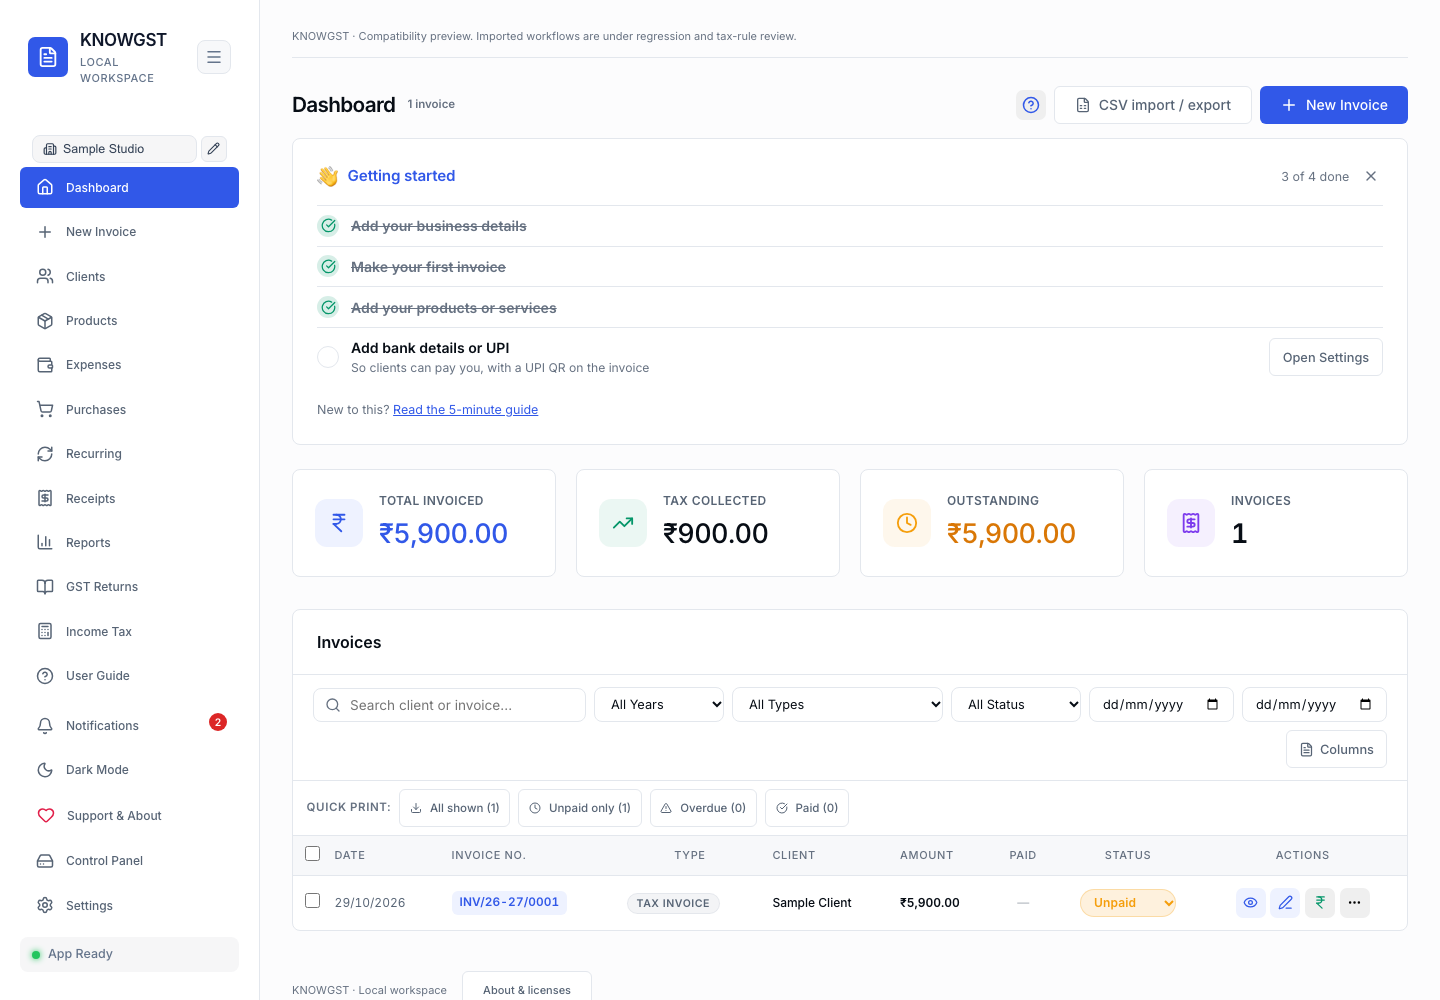
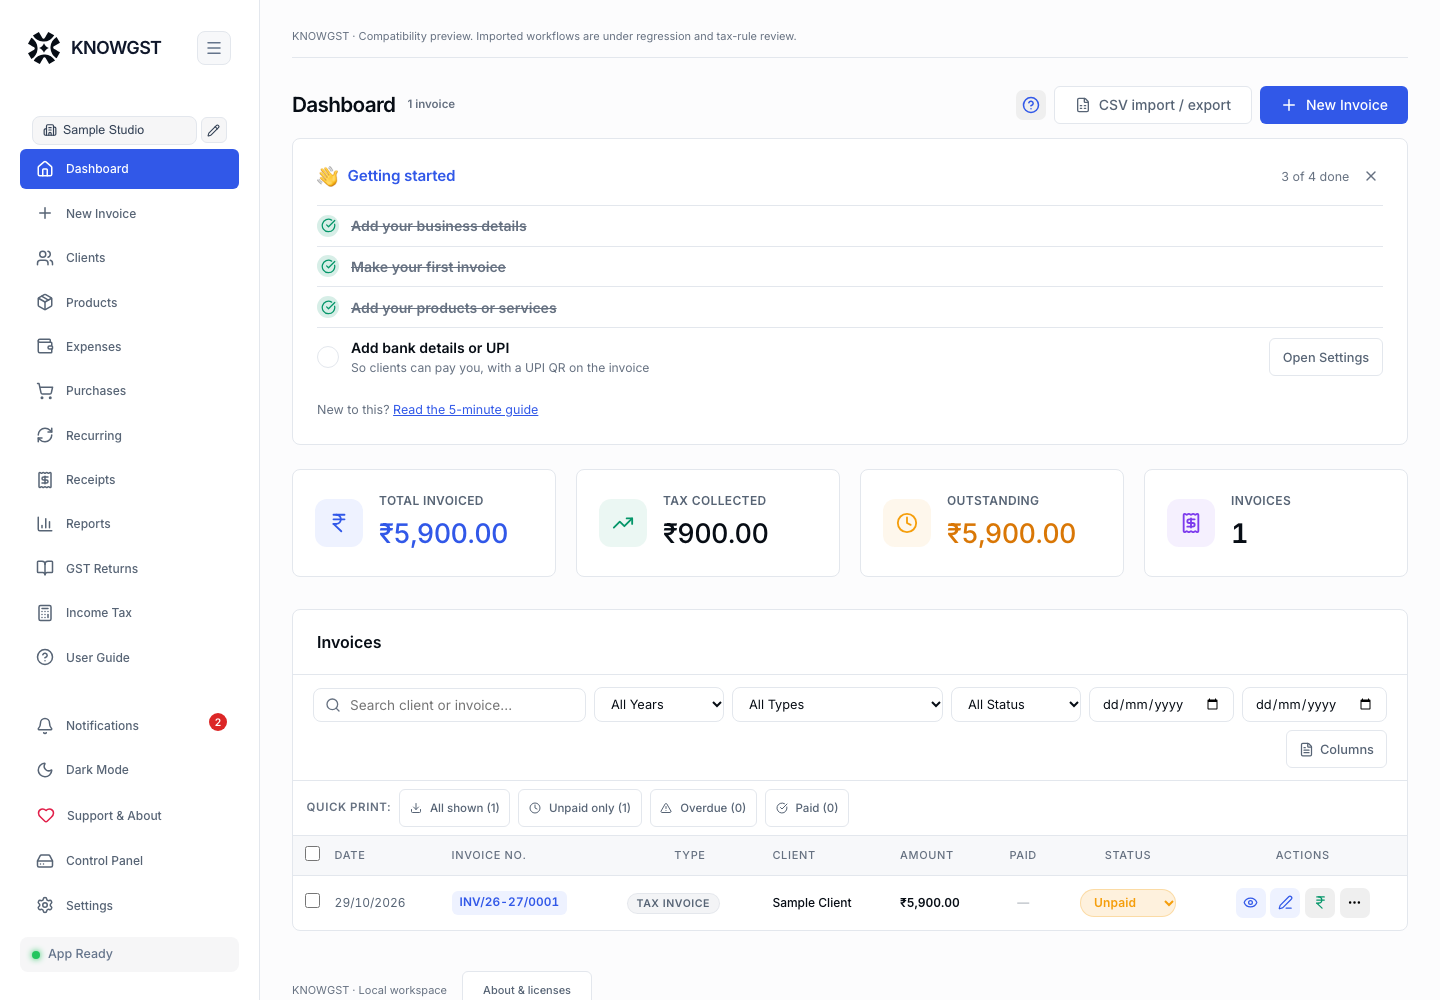
Use official KnowAI symbol across KNOWGST branding

Changed region(s): [[0.0, 0.124, 0.1875, 0.682], [0.0, 0.031, 0.1562, 0.093]]

diff --git a/apps/parity/public/docs/style.css b/apps/parity/public/docs/style.css
@@ -1,1 +1,3 @@
 :root{font-family:Inter,-apple-system,BlinkMacSystemFont,"Segoe UI",sans-serif;color:#20242d;background:#fff;font-size:15px;line-height:1.65;--bg:#fff;--soft:#f7f8fa;--line:#e6e8ed;--muted:#606775;--accent:#2557ce;--text:#20242d;color-scheme:light}*{box-sizing:border-box}html{scroll-behavior:smooth;scroll-padding-top:95px}html[data-theme=dark]{--bg:#17191e;--soft:#20232b;--line:#343945;--muted:#a8afbd;--accent:#9db9ff;--text:#ebedf2;background:var(--bg);color:var(--text);color-scheme:dark}body{margin:0}a{color:var(--accent);text-decoration:none}a:hover{text-decoration:underline}button,input{font:inherit}button{cursor:pointer;background:var(--bg);color:var(--text);border:1px solid var(--line);border-radius:7px;padding:5px 11px}a:focus-visible,button:focus-visible,input:focus-visible{outline:3px solid var(--accent);outline-offset:4px}.skip{position:fixed;top:-100px;left:20px;background:var(--bg);padding:12px;z-index:5}.skip:focus{top:10px}header{height:73px;position:sticky;top:0;z-index:2;display:flex;align-items:center;justify-content:space-between;padding:0 30px;border-bottom:1px solid var(--line);background:var(--bg)}.brand{display:flex;align-items:center;gap:12px;color:var(--text);font-weight:650;letter-spacing:-.3px}.mark{display:grid;place-items:center;width:30px;height:30px;background:var(--text);color:var(--bg);border-radius:7px}.divider{color:var(--line);margin:0 4px}.muted{color:var(--muted);font-weight:400}.tools{display:flex;gap:18px;align-items:center}.open-app{font-size:13px;font-weight:600}.layout{max-width:1512px;margin:auto;display:grid;grid-template-columns:252px minmax(0,1fr) 190px}.layout>aside{position:sticky;top:73px;height:calc(100vh - 73px);overflow:auto;padding:30px 24px}#navigation{border-right:1px solid var(--line)}label{display:block;font-size:12px;font-weight:600;margin-bottom:6px}input{width:100%;border:1px solid var(--line);border-radius:7px;background:var(--soft);padding:9px 10px;color:var(--text);font-size:13px}#search-status{font-size:12px;color:var(--muted);margin:7px 0}nav h2{font-size:11px;text-transform:uppercase;letter-spacing:.07em;color:var(--muted);margin:24px 8px 8px}nav a{display:block;font-size:13px;padding:7px 10px;margin:2px 0;border-radius:6px;color:var(--muted);line-height:1.4}nav a:hover{background:var(--soft);text-decoration:none}nav a[aria-current=page]{background:var(--soft);color:var(--accent);font-weight:600}.edition{font-size:11px;color:var(--muted);margin:35px 8px 10px}main{padding:42px 48px 28px;min-width:0;max-width:1000px}.breadcrumb{font-size:12px;color:var(--muted);margin-bottom:32px}.breadcrumb span{padding:0 10px}.badge{font-size:10px;font-weight:650;letter-spacing:.12em;color:var(--muted)}h1{font-size:36px;line-height:1.2;letter-spacing:-1.2px;margin:12px 0 16px;font-weight:650}.intro{font-size:17px;color:var(--muted);line-height:1.7;margin-bottom:32px}section{scroll-margin-top:100px;margin-bottom:32px}h2{font-size:19px;letter-spacing:-.3px;font-weight:600;margin:0 0 15px}figure{margin:0 0 24px}figure a{display:block;border:1px solid var(--line);border-radius:9px;overflow:hidden;background:var(--soft)}img{display:block;width:100%;height:auto}figcaption{font-size:11px;color:var(--muted);margin-top:9px}ol{padding-left:24px}li{padding-left:7px;margin-bottom:13px}.action{display:inline-block;border:1px solid var(--line);border-radius:7px;padding:8px 13px;font-size:13px}.note{background:var(--soft);border:1px solid var(--line);border-radius:8px;padding:20px 22px}.note h2{font-size:14px;margin-bottom:6px}.note p{font-size:13px;color:var(--muted);margin:0}.contents{font-size:12px}.contents p{font-size:10px;letter-spacing:.08em;color:var(--muted);margin:12px 0 16px}.contents a{display:block;color:var(--muted);padding:6px 0}.pagination{display:flex;justify-content:space-between;gap:16px;border-top:1px solid var(--line);padding-top:22px;font-size:13px}.pagination small{display:block;color:var(--muted);margin-bottom:3px}.pagination a:last-child{text-align:right}footer{font-size:11px;color:var(--muted);margin-top:40px}#menu{display:none}@media(min-width:1600px){main{padding-left:60px;padding-right:60px}}@media(max-width:1100px){.layout{grid-template-columns:220px minmax(0,1fr)}.contents{display:none}main{padding:32px}}@media(max-width:720px){header{padding:0 16px;height:65px}.brand{gap:8px;font-size:13px}.brand .divider,.brand .muted{display:none}.tools{gap:10px}#menu{display:block;font-size:12px}.open-app{font-size:12px}.layout{display:block}#navigation{display:none;position:static;height:auto;max-height:60vh;border-bottom:1px solid var(--line);padding:20px}#navigation.expanded{display:block}main{padding:28px 20px}h1{font-size:29px}.intro{font-size:16px}.breadcrumb{margin-bottom:26px}.pagination{font-size:12px}html{scroll-padding-top:80px}}@media(prefers-reduced-motion:reduce){html{scroll-behavior:auto}}
+
+.brand .mark{background:currentColor;color:var(--text);border-radius:0;-webkit-mask:url('/brand/knowai-icon.svg') center/contain no-repeat;mask:url('/brand/knowai-icon.svg') center/contain no-repeat;width:28px;height:28px;flex-shrink:0}

diff --git a/apps/parity/public/docs/index.html b/apps/parity/public/docs/index.html
@@ -1,1 +1,1 @@
-<!doctype html><html lang="en"><head><meta charset="utf-8"><meta name="viewport" content="width=device-width, initial-scale=1"><meta name="description" content="KNOWGST user guide: invoices, purchases, reports and backups, with screenshots of the implemented app."><title>KNOWGST · User guide</title><link rel="stylesheet" href="./style.css"><script type="module" src="./guide.js"></script></head><body><a class="skip" href="#article">Skip to guide</a><header><a class="brand" href="./"><span class="mark">K</span> KNOWGST <span class="divider">/</span><span class="muted">User guide</span></a><div class="tools"><button id="menu" aria-expanded="false" aria-controls="navigation">Topics</button><button id="theme" aria-label="Switch to dark theme">◐</button><a class="open-app" href="/">Open app ↗</a></div></header><div class="layout"><aside id="navigation"><label for="search">Find a topic</label><input id="search" type="search" placeholder="Search the guide…" autocomplete="off"><p id="search-status" role="status"></p><nav aria-label="Guide topics"></nav><div class="edition">Local compatibility edition<br>Updated 29 October 2026</div></aside><main id="article" tabindex="-1"></main><aside class="contents"><p>ON THIS PAGE</p><a href="#overview">Overview</a><a href="#screen">In the app</a><a href="#steps">Step by step</a><a href="#notes">Before you continue</a></aside></div></body></html>
+<!doctype html><html lang="en"><head><meta charset="utf-8"><meta name="viewport" content="width=device-width, initial-scale=1"><meta name="description" content="KNOWGST user guide: invoices, purchases, reports and backups, with screenshots of the implemented app."><link rel="icon" type="image/svg+xml" href="/brand/knowai-icon.svg"><title>KNOWGST · User guide</title><link rel="stylesheet" href="./style.css"><script type="module" src="./guide.js"></script></head><body><a class="skip" href="#article">Skip to guide</a><header><a class="brand" href="./"><span class="mark" aria-hidden="true"></span> KNOWGST <span class="divider">/</span><span class="muted">User guide</span></a><div class="tools"><button id="menu" aria-expanded="false" aria-controls="navigation">Topics</button><button id="theme" aria-label="Switch to dark theme">◐</button><a class="open-app" href="/">Open app ↗</a></div></header><div class="layout"><aside id="navigation"><label for="search">Find a topic</label><input id="search" type="search" placeholder="Search the guide…" autocomplete="off"><p id="search-status" role="status"></p><nav aria-label="Guide topics"></nav><div class="edition">Local compatibility edition<br>Updated 29 October 2026</div></aside><main id="article" tabindex="-1"></main><aside class="contents"><p>ON THIS PAGE</p><a href="#overview">Overview</a><a href="#screen">In the app</a><a href="#steps">Step by step</a><a href="#notes">Before you continue</a></aside></div></body></html>

diff --git a/apps/parity/src/App.jsx b/apps/parity/src/App.jsx
@@ -812,18 +812,16 @@ function App() {
           aria-label="Open menu" aria-expanded={navOpen}>
           <Menu size={22} />
         </button>
-        <span className="mobile-topbar-title">KNOWGST</span>
+        <span className="mobile-topbar-title knowgst-mobile-brand"><span className="knowai-symbol" aria-hidden="true" />KNOWGST</span>
         <span className="mobile-topbar-business">{profile?.businessName || ''}</span>
       </div>
       {navOpen && <div className="sidebar-backdrop" onClick={() => setNavOpen(false)} aria-hidden="true" />}
       <div className={`sidebar${navOpen ? ' sidebar-open' : ''}`} onClick={closeNavAfterPick}>
         <div className="sidebar-brand">
-          <div className="sidebar-logo">
-            <FileText size={22} />
-          </div>
+          <div className="sidebar-logo knowgst-brand-symbol" aria-hidden="true"><span className="knowai-symbol" /></div>
           <div>
             <h2 className="sidebar-title">KNOWGST</h2>
-            <p className="sidebar-subtitle">Local workspace</p>
+            
           </div>
           {/* Auto-hide as a ☰ button (was a text checkbox): pressed = the menu
               shrinks to icons and opens when pointed at. */}

diff --git a/apps/parity/src/knowgst.css b/apps/parity/src/knowgst.css
@@ -28,3 +28,10 @@ html .sidebar .nav-btn-active{background:#3158e8!important;color:#fff!important;
 html .sidebar .nav-btn-support,html .sidebar .nav-btn-support:hover{background:transparent!important;border-color:transparent!important;color:var(--text-secondary)!important}
 html[data-theme=dark] .sidebar .nav-btn:not(.nav-btn-active){color:#c3ccda!important}
 html[data-theme=dark] .form-input{background:var(--card-bg);color:var(--text);border-color:var(--border)}
+
+/* Official KnowAI symbol, paired with the product wordmark. */
+.knowai-symbol{display:block;width:32px;height:32px;flex-shrink:0;background:currentColor;-webkit-mask:url('/brand/knowai-icon.svg') center/contain no-repeat;mask:url('/brand/knowai-icon.svg') center/contain no-repeat}
+.sidebar .sidebar-brand{gap:11px;min-height:40px;align-items:center}
+.sidebar .sidebar-logo.knowgst-brand-symbol{background:transparent;width:32px;height:32px;border-radius:0;box-shadow:none;color:var(--text)}
+.sidebar .sidebar-title{font-size:18px;font-weight:600;letter-spacing:-.65px;white-space:nowrap;line-height:1.2}
+.knowgst-mobile-brand{display:inline-flex;align-items:center;gap:9px}.knowgst-mobile-brand .knowai-symbol{width:23px;height:23px}

diff --git a/apps/parity/index.html b/apps/parity/index.html
@@ -1,1 +1,1 @@
-<!doctype html><html lang="en"><head><meta charset="UTF-8"/><meta name="viewport" content="width=device-width, initial-scale=1.0"/><meta name="theme-color" content="#3158E8"/><title>KNOWGST</title></head><body><div id="root"></div><script type="module" src="/src/main.jsx"></script></body></html>
+<!doctype html><html lang="en"><head><meta charset="UTF-8"/><meta name="viewport" content="width=device-width, initial-scale=1.0"/><meta name="theme-color" content="#3158E8"/><link rel="icon" type="image/svg+xml" href="/brand/knowai-icon.svg"/><title>KNOWGST</title></head><body><div id="root"></div><script type="module" src="/src/main.jsx"></script></body></html>

diff --git a/apps/parity/public/brand/README.md b/apps/parity/public/brand/README.md
@@ -1,0 +1,3 @@
+# Brand source
+
+`knowai-icon.svg` is the unmodified symbol served at https://knowai.club/icon.svg, retrieved on 29 October 2026 and reused at the product owner's request. The app and guide pair this existing KnowAI symbol with the KNOWGST product name. CSS masks preserve its geometry and use the active text color for light/dark mode. The favicon retains the original asset's system-theme styling.
